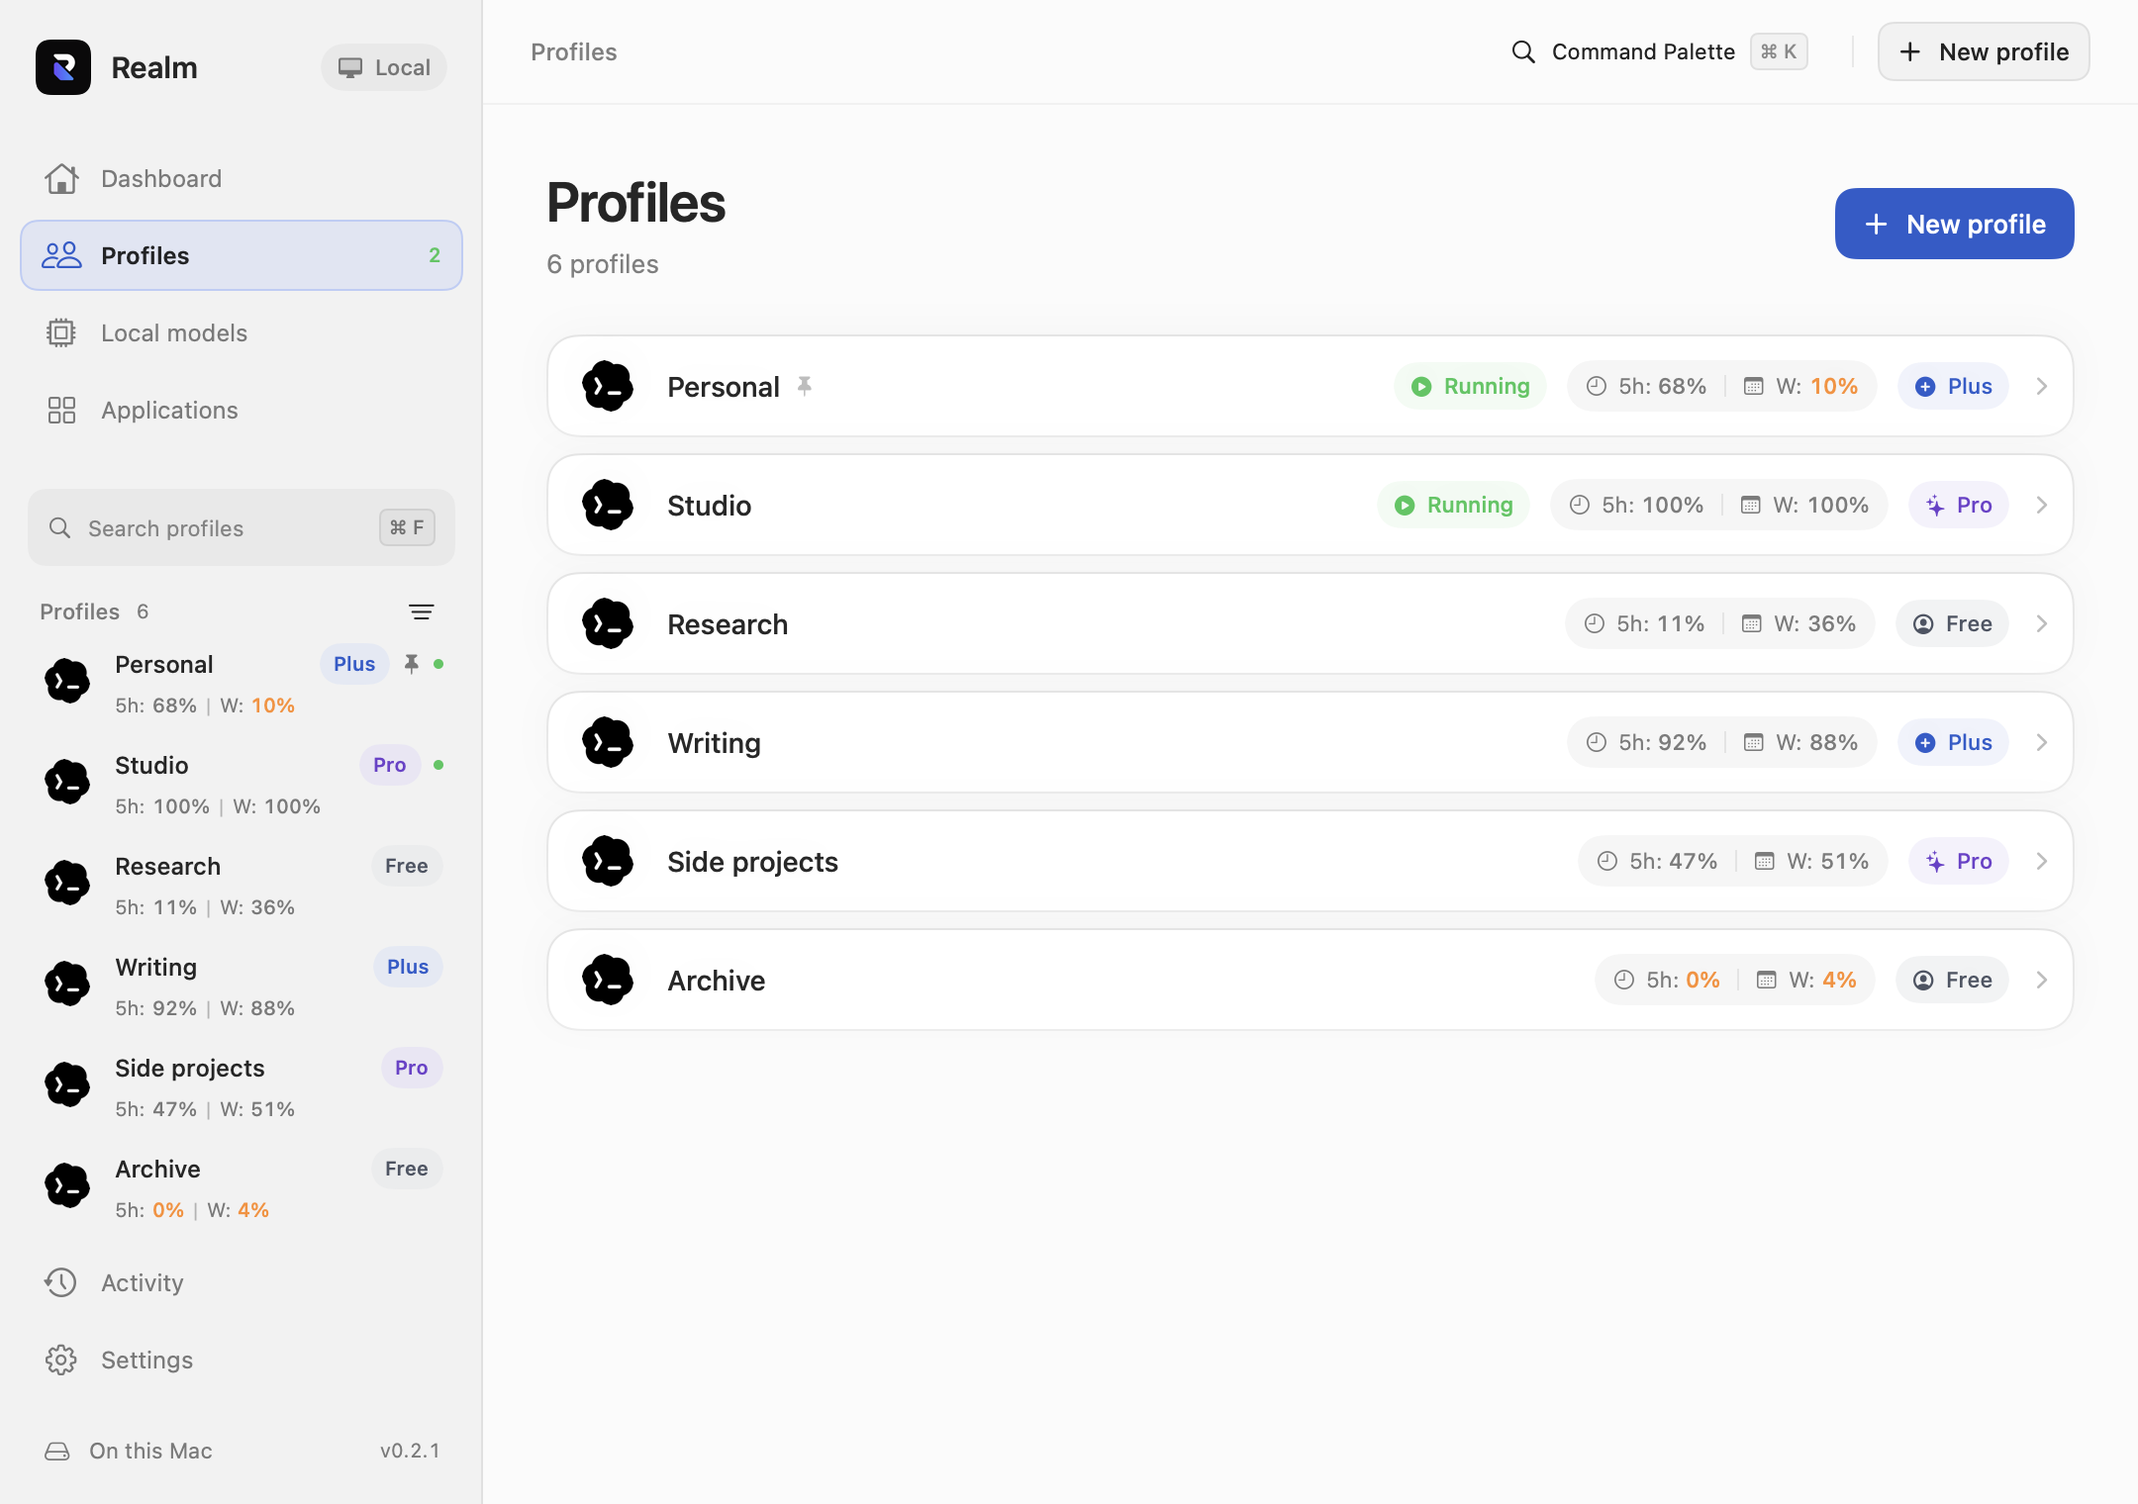
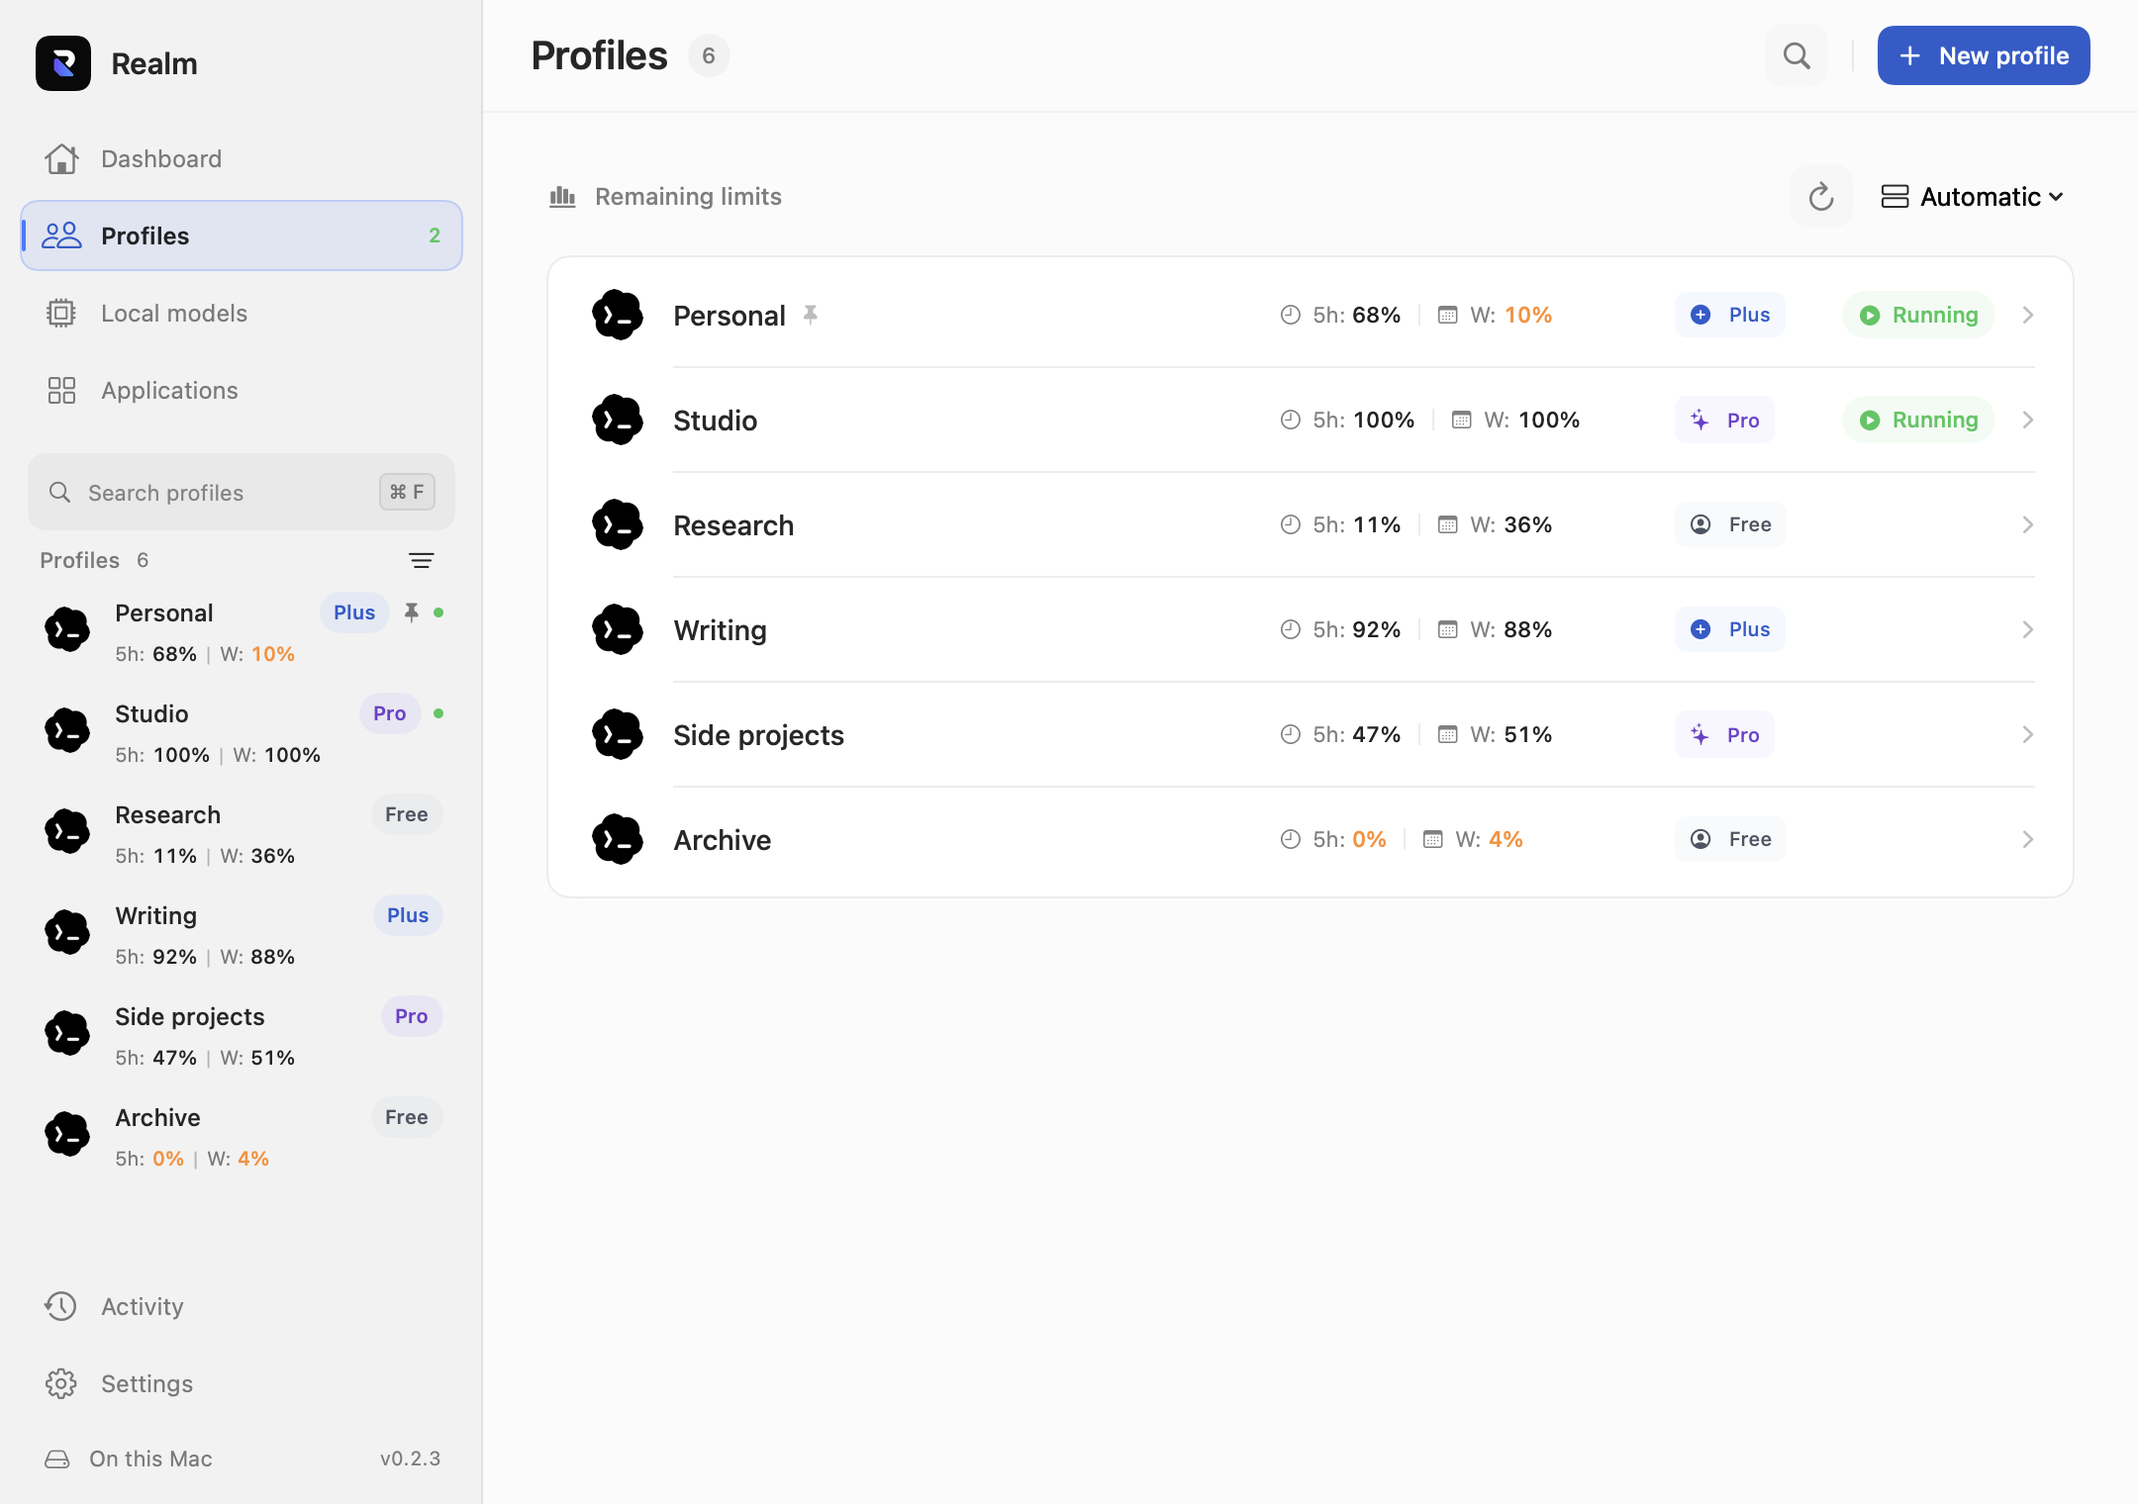
Publish Realm 0.2.3 product update

diff --git a/Shared/DesignSystem.md b/Shared/DesignSystem.md
@@ -1,55 +1,54 @@
 # Realm Design System
 
-Realm uses a dark-first, low-clutter desktop interface inspired by modern professional tools.
+Realm uses neutral surfaces, clear hierarchy, and compact macOS controls. Copy names the action or state in a few words. Color is reserved for account usage, provider identity, and status.
 
-## Visual Principles
-
-- Typography is calm, legible, and compact.
-- Surfaces use native material blur where available.
-- Corners are rounded but restrained: 8 to 14 px.
-- Spacing follows a 4 px rhythm.
-- Icons use platform-native symbol sets.
-- Primary actions are visible, secondary actions live in context menus or command palette.
-- Motion is short, functional, and native.
-
-## Color Tokens
+## Surfaces and type
 
 | Token | Dark | Light |
 | --- | --- | --- |
-| App background | `#0D0F12` | `#F6F7F8` |
-| Sidebar | material ultra-thin | material regular |
-| Panel | `#16191D` | `#FFFFFF` |
-| Border | `#2A2F36` | `#D8DDE3` |
-| Text primary | `#F4F6F8` | `#16181C` |
-| Text secondary | `#9AA4AF` | `#5E6875` |
-| Accent | `#6EA8FE` | `#2563EB` |
-| Success | `#46C978` | `#168A45` |
-| Warning | `#F6C350` | `#A96F00` |
-| Danger | `#FF6B6B` | `#C93636` |
+| Window | 8.5% white | 98.5% white |
+| Sidebar | 11.5% white | 95% white |
+| Card | 12% white | white |
+| Elevated surface | 15.5% white | white |
+| Border | white at 8.5% | black at 7.5% |
+| Primary action | Selected accent | Selected accent |
+
+Use native primary and secondary text styles. Informative labels must remain readable in both appearances. Page headings are 28 pt semibold, section headings 14–15 pt, body 12–14 pt, and metadata 11–12 pt. Usage percentages use 36 pt with monospaced digits.
 
 ## Layout
 
-- Window minimum size: 980 x 640.
-- Sidebar width: 248.
-- Toolbar height: 52.
-- List row height: 64.
-- Detail max content width: 760.
-- Touch targets on Windows: 32 px minimum.
-- Pointer targets on macOS: 28 pt minimum.
+- Minimum window: 1080 × 700 pt.
+- Sidebar: 244 pt ideal, adjustable between 220 and 276 pt.
+- Toolbar: 56 pt. Status bar: 29 pt.
+- Page: up to 1040 pt of content with 32 pt horizontal padding.
+- Cards: 12 pt corners, 20–24 pt padding, subtle borders and shadows.
+- Buttons: 36 pt high, or 30 pt for compact actions. Icon actions: 32 × 32 pt.
+- Primary buttons use the selected accent with white labels; secondary buttons use a quiet fill and border.
 
 ## Components
 
-- Sidebar: account workspaces, filters, settings entry.
-- Toolbar: search, command palette trigger, create button.
-- Workspace row: favorite, account label, app association, tags, last opened.
-- Detail view: account metadata, notes, profile path, configuration editor, quick actions.
-- Settings: tabbed or grouped native form with theme, accent, language, startup, directory, logging, updates.
-- Command palette: modal native material surface with keyboard-first filtering.
+`RealmDesignSystem.swift` defines shared cards, buttons, badges, page headings, usage meters, empty states, and keyboard hints.
 
-## Accessibility
+The dashboard combines a restrained hero, counts, recent profiles, provider status, and activity. Profile details show the account, two usage windows, and collapsible profile settings. Applications and local models retain their own icons within the same card system. Settings separate Appearance, Profiles, and Updates.
 
-- Every icon-only action has an accessibility label and tooltip.
-- Focus order follows visual order.
-- High contrast avoids material-only distinction.
-- Dynamic type scales titles, body, captions, and controls without overlap.
-- Status uses text and shape in addition to color.
+The sidebar supports search (⌘F), filters, sorting, and context actions. The command palette (⌘K) supports search, arrow navigation, Return, and Escape. Local chat uses the same surfaces and controls, with a labeled composer and visible send state.
+
+## Verification
+
+The opt-in interface test renders all six main sections in light and dark modes, both additional Settings panes, modal views, and empty/loading/signed-out/low-usage states. It also checks a wider profile view and right-to-left layout. All account and conversation data in snapshots is synthetic.
+
+Run native interaction checks alongside snapshots: profile creation and rename, search, command-palette navigation, theme changes, usage preferences, and the separate Settings window. Honor Reduce Motion for navigation and hover animations. Icon-only actions need a descriptive accessibility label.
+
+## Brand icons and local-model color
+
+Codex uses the supplied transparent PNGs without a background tile: `codex-light.png` is black for light appearance; `codex-dark.png` is white for dark appearance. `ApplicationBrandIconView` chooses the correct resource at render time.
+
+Ollama and LM Studio use their actual app icons through `LocalProviderIconView`, consistently in the overview, model library, and local chat. The provider palette restores periwinkle (`0.42, 0.50, 1.0`) for Ollama and violet (`0.79, 0.40, 0.95`) for LM Studio. Apply it to subtle panel gradients, selection fills, and borders; retain the selected accent for primary actions.
+
+## Realm 0.2.3
+
+Keep the first beta’s dashboard, sidebar selection treatment, and spacious page layout. The Profiles overview uses a single grouped surface with quiet separators, aligned five-hour/weekly values, and adaptive rows. Retain the green Running capsule with its play icon. Free is graphite, Plus blue, Pro and Max violet; low remaining capacity is orange.
+
+The toolbar command palette is a 32 pt search icon with a descriptive accessibility label and ⌘K shortcut. Sidebar translucency is opt-in and uses native behind-window sidebar material. The content pane stays opaque; Reduce Transparency restores a solid sidebar. Light and Dark update both the SwiftUI content and native window, while System observes the inherited macOS appearance.
+
+Button hover/press feedback lasts 100–160 ms; page and profile transitions last 160–180 ms. Usage meters animate over 300 ms. Reduce Motion disables these effects. Settings keep Appearance, Profiles, and Updates in distinct panes.

diff --git a/README.md b/README.md
@@ -8,9 +8,9 @@
   A native Mac app for Codex, Claude, and your local models.
 </p>
 <p align="center">
-  <a href="https://github.com/UDPING/Realm/releases/download/v0.2.1/Realm-macOS.dmg"><strong>Download for macOS</strong></a>
+  <a href="https://github.com/UDPING/Realm/releases/download/v0.2.3/Realm-macOS.dmg"><strong>Download for macOS</strong></a>
   &nbsp; · &nbsp;
-  <a href="https://github.com/UDPING/Realm/releases/tag/v0.2.1">What’s new in 0.2.1</a>
+  <a href="https://github.com/UDPING/Realm/releases/tag/v0.2.3">What’s new in 0.2.3</a>
 </p>
 <p align="center"><sub>Apple silicon · macOS 14 or later</sub></p>
 
@@ -24,10 +24,10 @@
 
 Keep personal and work accounts in named profiles. See what’s running, compare remaining limits, and open the account you need.
 
-- **Limits at a glance.** Five-hour and weekly capacity in the sidebar and profile list. Free, Plus, and Pro badges make accounts easy to recognize.
-- **Room to grow.** Profile rows become more compact as your collection grows. Open a profile for account details and reset times.
+- **Limits at a glance.** Five-hour and weekly capacity in the sidebar and profile list. Colored Free, Plus, Pro, and Max badges make accounts easy to recognize.
+- **Room to grow.** Profile rows become more compact as your collection grows. Choose Automatic, Comfortable, or Compact density. Open a profile for account details and reset times.
 - **Your models, together.** Browse Ollama and LM Studio libraries and chat through their local servers.
-- **Made for your Mac.** Light, Dark, or System appearance. Four accent colors. English, فارسی, and Русский.
+- **Made for your Mac.** Light, Dark, or System appearance, an optional translucent sidebar, and subtle transitions. Four accent colors. English, فارسی, and Русский.
 
 ### Local models. Familiar tools.
 
@@ -48,7 +48,7 @@ Realm discovers existing model libraries, including GGUF and LM Studio MLX model
 
 **Make it yours**
 
-<img src="docs/screenshots/realm-settings.png" alt="Realm appearance settings with themes, accent colors, and language selection">
+<img src="docs/screenshots/realm-settings.png" alt="Realm appearance settings with themes, a translucent sidebar option, accent colors, and language selection">
 
 Screenshots use sample accounts and usage data. Percentages show remaining capacity. A dash means a limit is unavailable or awaiting a fresh check.
 
@@ -56,19 +56,19 @@ Screenshots use sample accounts and usage data. Percentages show remaining capac
 
 ### Get started
 
-1. Download the [macOS installer](https://github.com/UDPING/Realm/releases/download/v0.2.1/Realm-macOS.dmg).
+1. Download the [macOS installer](https://github.com/UDPING/Realm/releases/download/v0.2.3/Realm-macOS.dmg).
 2. Open it and drag **Realm** to **Applications**. Quit an older copy before replacing it.
 3. Open Realm, create a Codex or Claude profile, and sign in through that app.
 
-Codex and Claude must be installed separately. Local chat requires Ollama or LM Studio and a downloaded model. Claude usage is available in Claude’s own settings.
+Codex and Claude must be installed separately. Local chat requires Ollama or LM Studio and a downloaded model. Claude limits use the sign-in saved inside that Realm profile. Open the profile and sign in first; if prompted in Realm, choose **Allow access** to authorize the macOS Keychain read.
 
-This build is ad-hoc signed and is not Apple-notarized. macOS may require approval in **System Settings → Privacy & Security** on first launch. [Release notes and checksums](https://github.com/UDPING/Realm/releases/tag/v0.2.1) accompany every download.
+This build is ad-hoc signed and is not Apple-notarized. macOS may require approval in **System Settings → Privacy & Security** on first launch. [Release notes and checksums](https://github.com/UDPING/Realm/releases/tag/v0.2.3) accompany every download.
 
 ### Thoughtfully local
 
 Profile metadata stays in `~/Library/Application Support/Realm/`. Account sessions are separate; supported project and chat data can be shared between profiles. Realm leaves the installed Codex and Claude apps intact.
 
-Account checks contact the provider through Codex, using each profile’s own account. Automatic refresh follows your chosen interval. Local-model chats use your local server. Update checks fetch releases from this repository.
+Account checks use each profile’s own Codex or Claude sign-in. Automatic refresh follows your chosen interval; successful Claude checks are cached for up to five minutes, with backoff if the provider asks you to wait. Local-model chats use your local server. Update checks fetch releases from this repository.
 
 | Action | Shortcut |
 | --- | --- |

diff --git a/releases/v0.2.3/RELEASE.md b/releases/v0.2.3/RELEASE.md
@@ -1,0 +1,24 @@
+# Realm 0.2.3
+
+The first beta’s familiar layout, with the second beta’s cleaner Profiles view.
+
+- A grouped profile list with aligned remaining limits, colored plans, adaptive density, and the original green Running badge.
+- Subtle button feedback, page transitions, and profile transitions that respect Reduce Motion.
+- A search icon for the command palette. The ⌘K shortcut works throughout the app.
+- Correctly applies Light, Dark, and System appearance when switching themes.
+- Optional native sidebar translucency in Settings → Appearance, with a solid fallback when Reduce Transparency is enabled.
+- Claude account limits, plan information, and reset times from each profile’s own sign-in. Clear messages for sign-in, Keychain access, and provider errors; expired limits display a dash while awaiting fresh data.
+
+## Install
+
+Download **Realm-macOS.dmg**, open it, and drag Realm to Applications. Quit an older copy of Realm before replacing it. This is the stable app and uses the existing Realm library; the beta apps and their libraries remain separate.
+
+Requires Apple silicon and macOS 14 or later. Codex and Claude must be installed separately. For Claude limits, sign in inside the Realm profile and use **Allow access** if Realm requests Keychain authorization. Checks are cached for up to five minutes.
+
+This build is ad-hoc signed, not Apple-notarized. On first launch, macOS may require approval in **System Settings → Privacy & Security**.
+
+## Validation
+
+59 enabled regression tests passed, covering profile launch/stop, account isolation, startup preferences, refresh scheduling, Claude parsing/authentication/error handling, and native window transparency. Interface renders cover both themes, three languages, density choices, and unavailable states. Claude success/error responses were tested with fixtures; authenticated live Claude usage was not available for validation.
+
+Checksums are supplied in **SHA256SUMS.txt**. Source code remains private.

diff --git a/Shared/Architecture.md b/Shared/Architecture.md
@@ -39,11 +39,14 @@ Presentation contains native views, reusable components, command definitions, an
 
 Infrastructure implements file persistence, backups, recovery, logging, and platform adapters. It is injected into the application layer at startup.
 
+Local-model infrastructure has two adapters:
+
+- `MacLocalModelCatalogService` merges live Ollama and LM Studio API results with on-disk discovery when either server is offline.
+- `MacLocalCodexLaunchService` starts installed providers and launches the Codex CLI with an ephemeral `--oss` provider override, leaving user and project Codex configuration untouched.
+
 ## Dependency Injection
 
 macOS uses a lightweight `AppContainer` composed in `WorkspaceHubApp`.
-
-Windows uses `Microsoft.Extensions.DependencyInjection` in `App.xaml.cs`.
 
 ## Threading
 
@@ -52,3 +55,9 @@ UI state is updated on the main actor or dispatcher. Disk I/O, logging, backup, 
 ## Error Policy
 
 Errors are logged with structured context and surfaced to the UI through non-blocking banners or native alerts for destructive actions. Recovery errors never block app launch unless no workspace data can be read.
+
+## Account limits on macOS
+
+Codex checks use the app-server account APIs with each Realm profile’s own configuration. Claude checks read that profile’s own desktop sign-in and request usage from Claude. The cookie store is opened read-only, credentials remain in memory, redirects are disabled, and Realm never falls back to another profile or the default browser account. Background checks do not prompt for Keychain access; a visible Allow access action lets the user authorize access when required.
+
+The view model caches usage per profile and shares in-flight work. Claude caches successful responses for up to five minutes and backs off on rate limits. Missing or expired data stays unavailable until a fresh response arrives. Profile changes and sign-out invalidate the relevant cached credentials.
